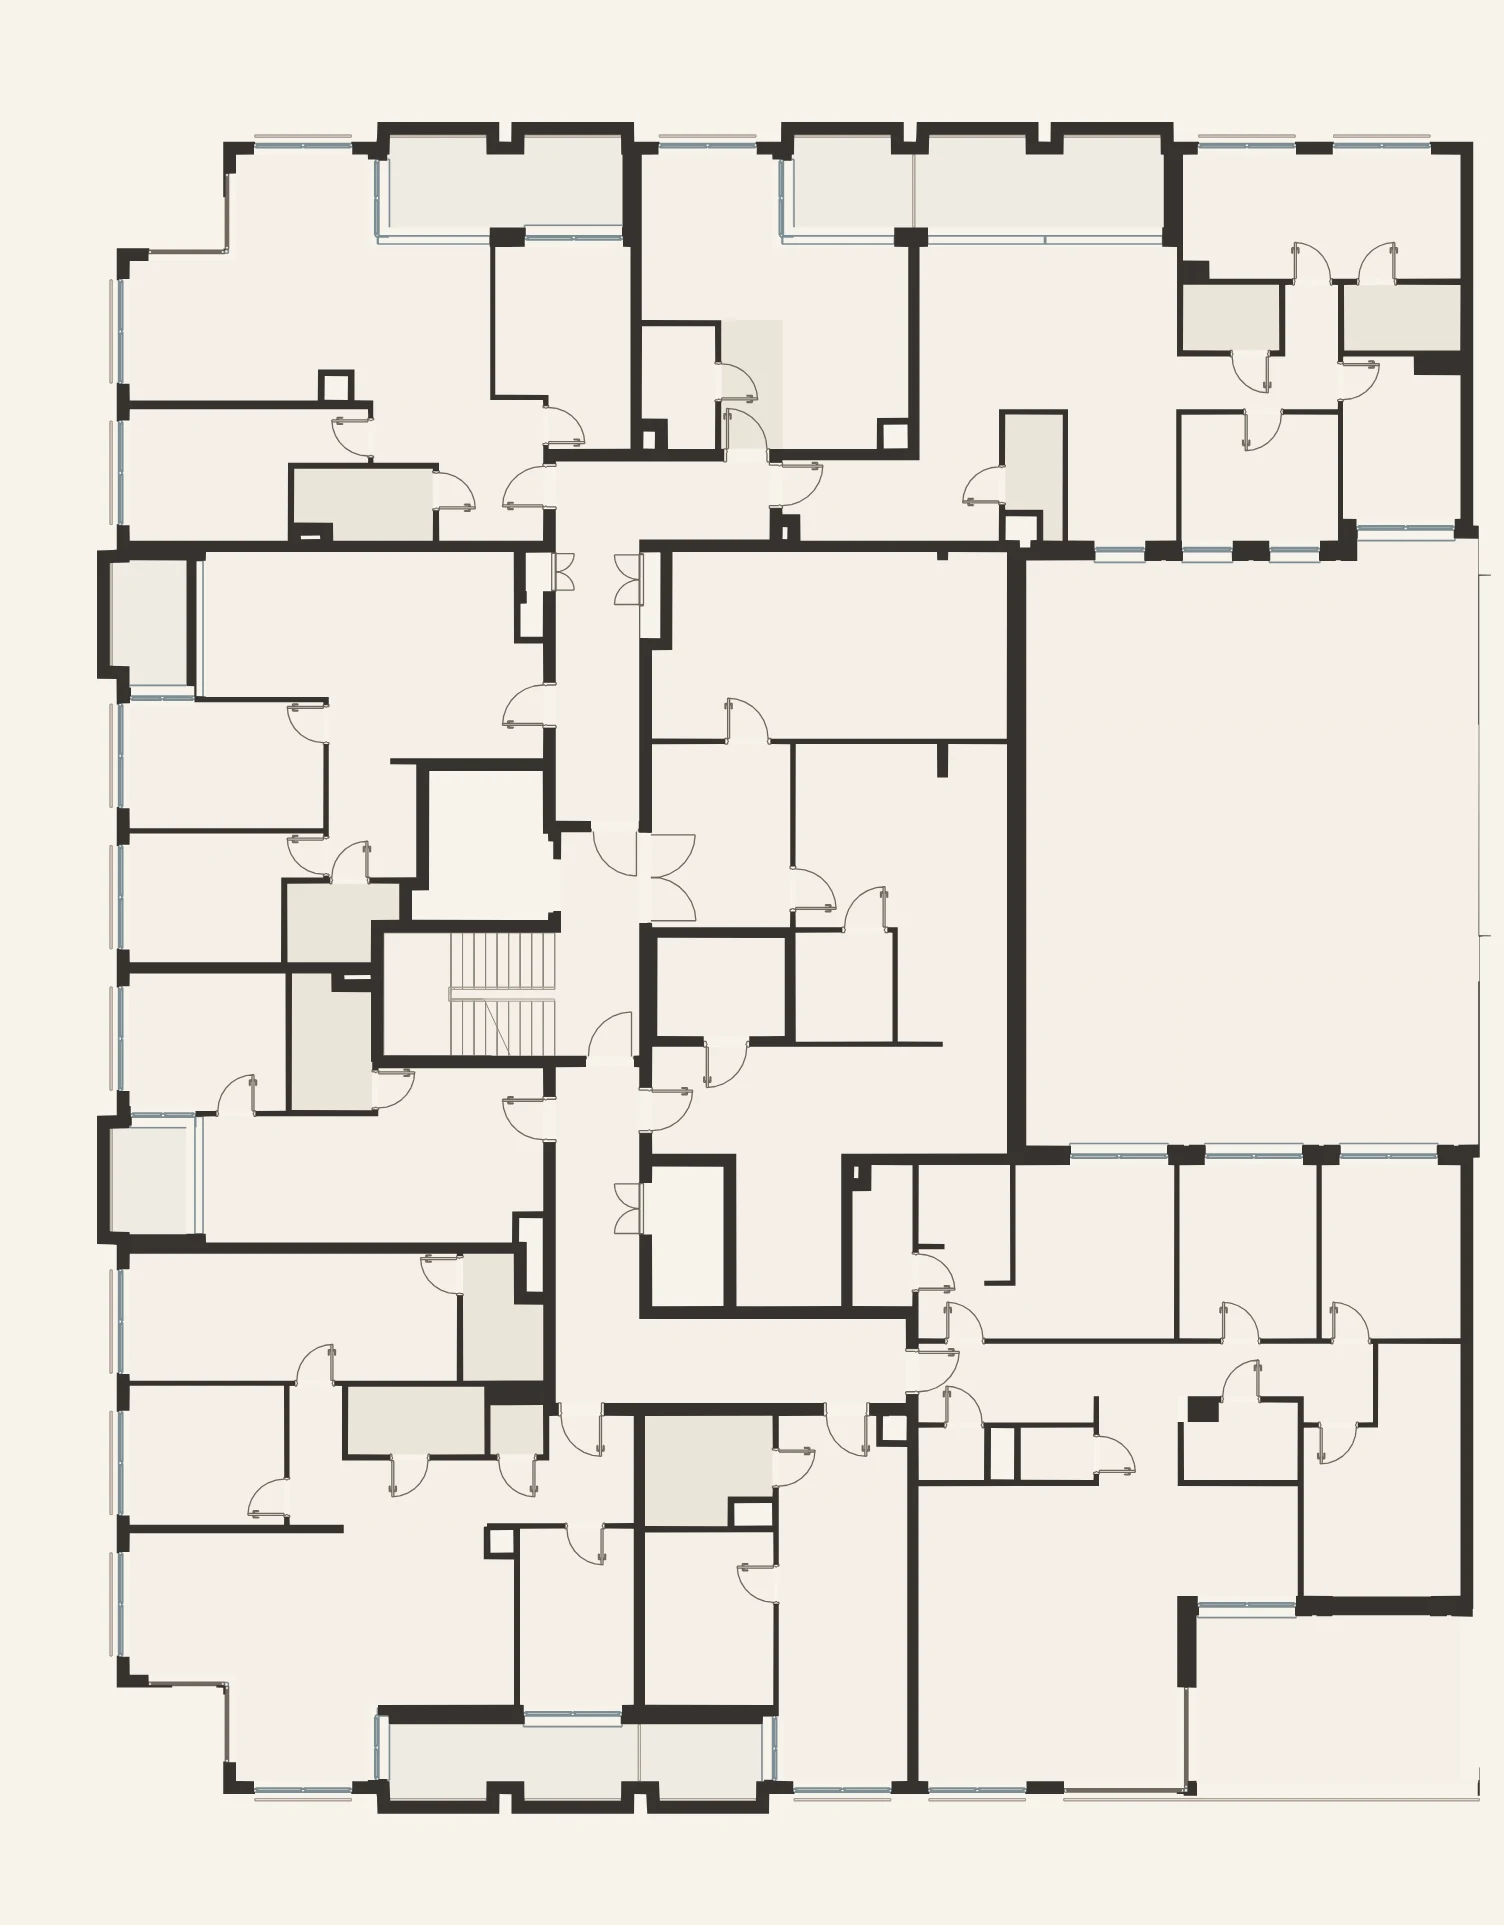
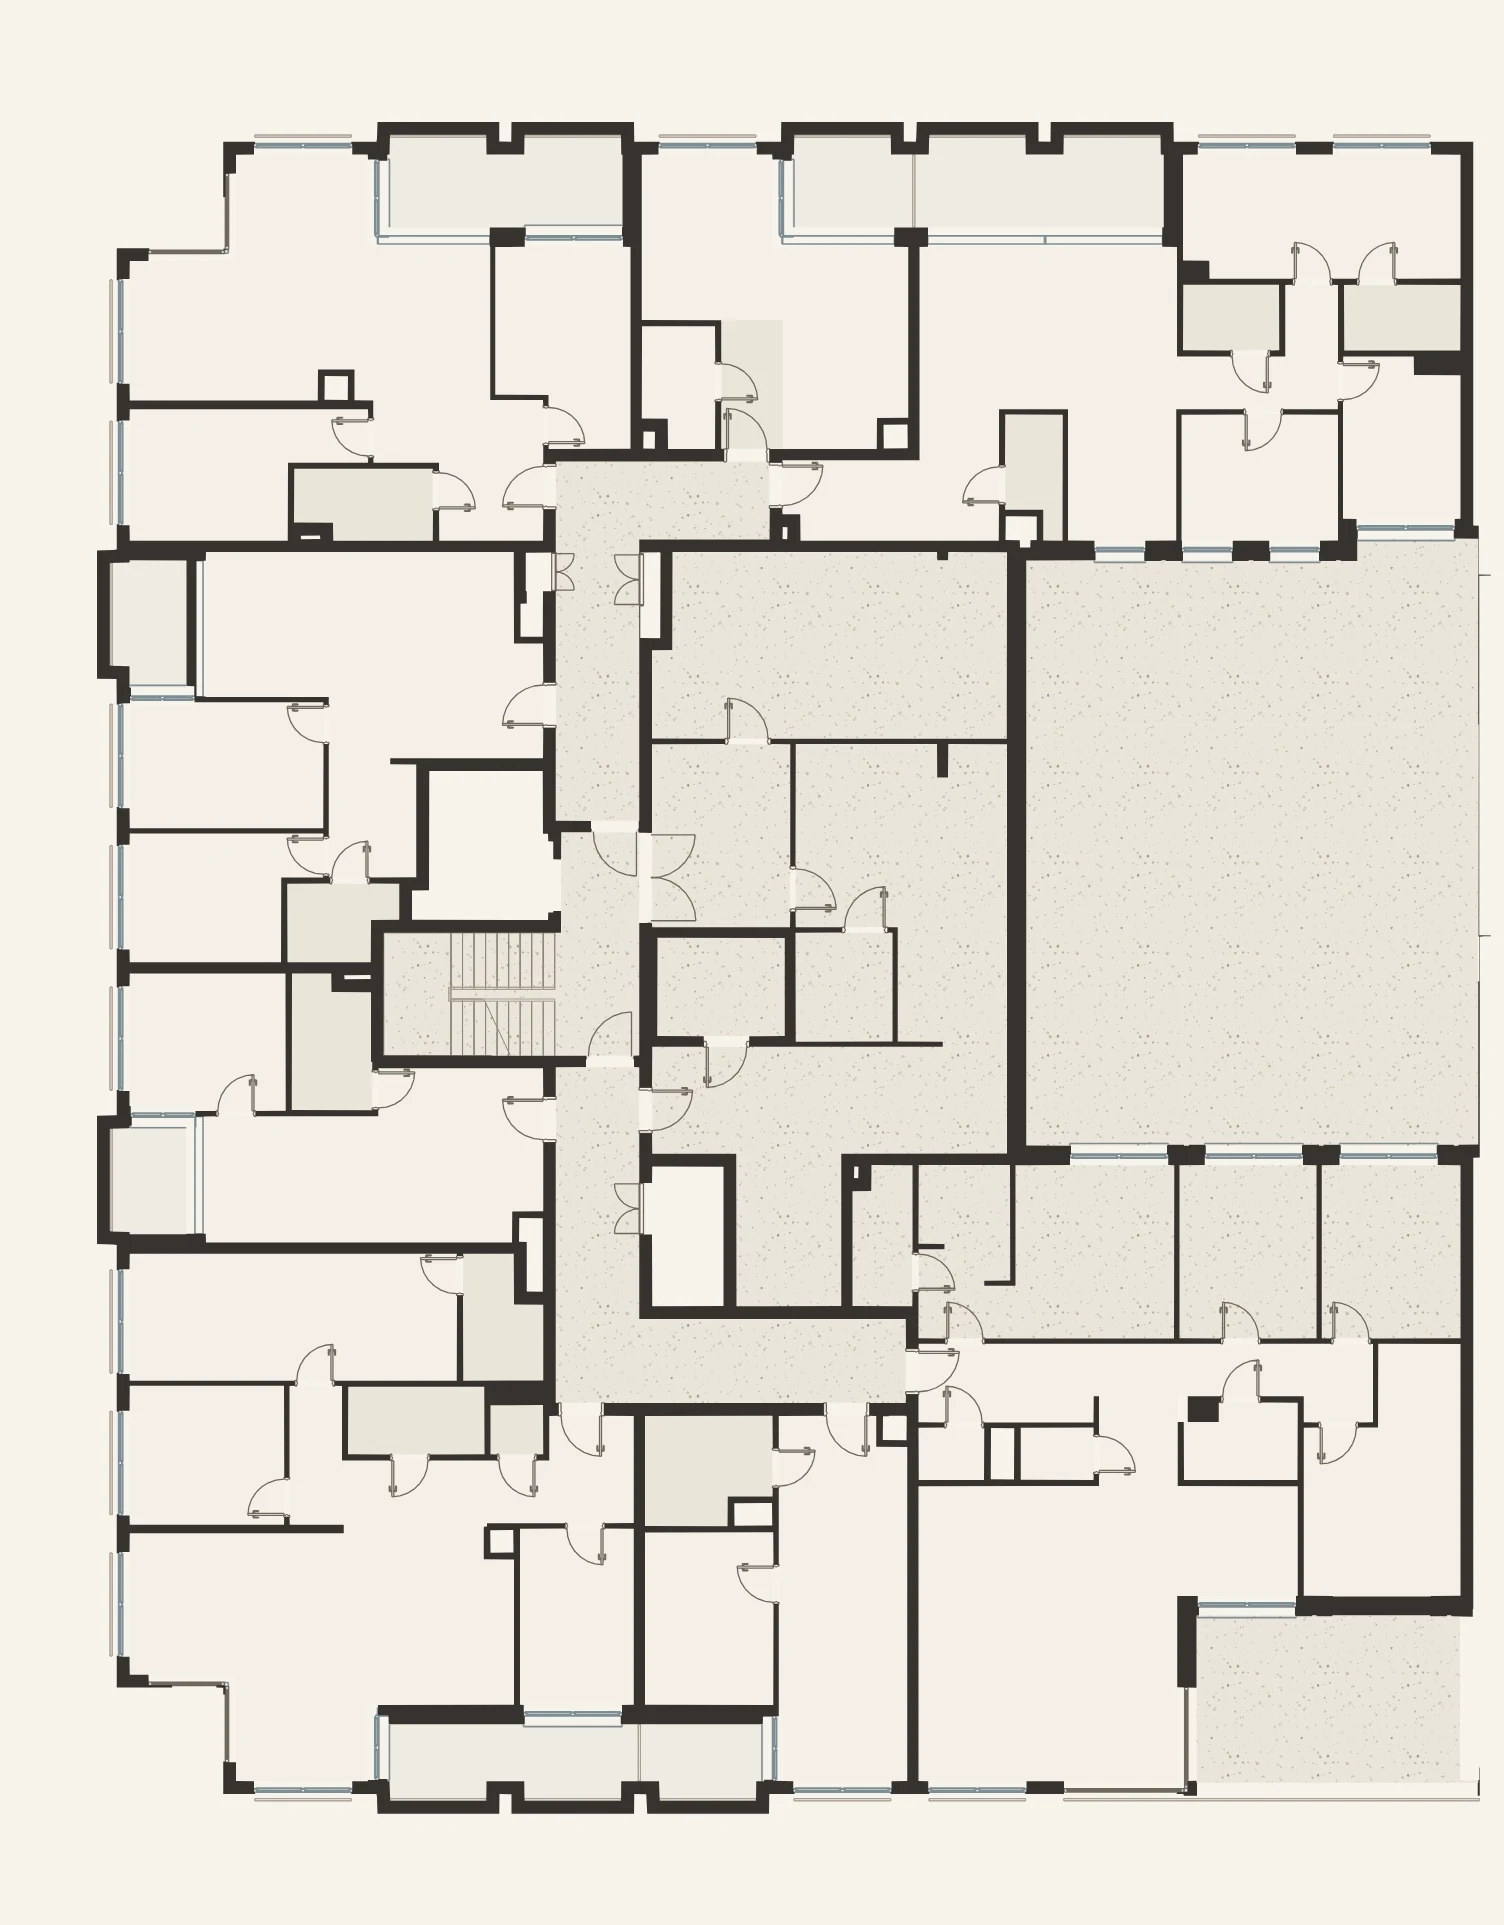
Rzuty kondygnacji: części wspólne (korytarze, klatka) w delikatnym lastryko (#110)
Claude-Session: https://claude.ai/code/session_01JqTzECbEDLjSdFDYMQNNHw

diff --git a/index.html b/index.html
@@ -18,7 +18,7 @@
   <link href="https://fonts.googleapis.com/css2?family=Jost:ital,wght@0,300..600;1,300..500&family=Nunito+Sans:ital,opsz,wght@0,6..12,300..700;1,6..12,300..500&display=swap" rel="stylesheet">
   <link rel="preload" as="image" href="assets/img/okolica-lotnicze.webp" imagesrcset="assets/img/okolica-lotnicze-1600.webp 1600w, assets/img/okolica-lotnicze.webp 3200w" imagesizes="100vw">
   <link rel="stylesheet" href="https://unpkg.com/leaflet@1.9.4/dist/leaflet.css" crossorigin="">
-  <link rel="stylesheet" href="assets/css/style.css?v=1793986717">
+  <link rel="stylesheet" href="assets/css/style.css?v=1793989126">
   <script>document.documentElement.classList.add('js');
   // Futura / Avenir Next tylko na Apple: gdy ich brak, dostrajamy darmowe zamienniki (Jost, Nunito Sans)
   (function(){try{var c=document.createElement('canvas').getContext('2d'),t='MWNmwqr075 Łódź';function w(f){c.font='72px '+f;return c.measureText(t).width}
@@ -640,12 +640,12 @@
 </div>
 
 <script src="https://unpkg.com/leaflet@1.9.4/dist/leaflet.js" crossorigin=""></script>
-<script src="assets/js/intro.js?v=1793986717"></script>
-<script src="assets/js/extras.js?v=1793986717"></script>
-<script src="assets/js/units.js?v=1793986717"></script>
-<script src="assets/js/dziennik.js?v=1793986717"></script>
-<script src="assets/js/plan.js?v=1793986717"></script>
-<script src="assets/js/dollhouse.js?v=1793986717" defer></script>
-<script src="assets/js/main.js?v=1793986717"></script>
+<script src="assets/js/intro.js?v=1793989126"></script>
+<script src="assets/js/extras.js?v=1793989126"></script>
+<script src="assets/js/units.js?v=1793989126"></script>
+<script src="assets/js/dziennik.js?v=1793989126"></script>
+<script src="assets/js/plan.js?v=1793989126"></script>
+<script src="assets/js/dollhouse.js?v=1793989126" defer></script>
+<script src="assets/js/main.js?v=1793989126"></script>
 </body>
 </html>

diff --git a/mieszkanie.html b/mieszkanie.html
@@ -17,7 +17,7 @@
   <!-- Docelowo: Futura PT i Avenir Next z licencji (np. Adobe Fonts). Jost i Nunito Sans to darmowe zamienniki na urządzeniach bez tych krojów. -->
   <link href="https://fonts.googleapis.com/css2?family=Jost:ital,wght@0,300..600;1,300..500&family=Nunito+Sans:ital,opsz,wght@0,6..12,300..700;1,6..12,300..500&display=swap" rel="stylesheet">
   
-  <link rel="stylesheet" href="assets/css/style.css?v=1793986717">
+  <link rel="stylesheet" href="assets/css/style.css?v=1793989126">
   <script>document.documentElement.classList.add('js');
   // Futura / Avenir Next tylko na Apple: gdy ich brak, dostrajamy darmowe zamienniki (Jost, Nunito Sans)
   (function(){try{var c=document.createElement('canvas').getContext('2d'),t='MWNmwqr075 Łódź';function w(f){c.font='72px '+f;return c.measureText(t).width}
@@ -101,11 +101,11 @@
   <button class="lb-close" aria-label="Zamknij"><svg viewBox="0 0 24 24"><path d="M6 6l12 12M18 6L6 18"/></svg></button>
 </div>
 
-<script src="assets/js/extras.js?v=1793986717"></script>
-<script src="assets/js/units.js?v=1793986717"></script>
-<script src="assets/js/plan.js?v=1793986717"></script>
-<script src="assets/js/dollhouse.js?v=1793986717" defer></script>
-<script src="assets/js/unit.js?v=1793986717"></script>
-<script src="assets/js/page.js?v=1793986717"></script>
+<script src="assets/js/extras.js?v=1793989126"></script>
+<script src="assets/js/units.js?v=1793989126"></script>
+<script src="assets/js/plan.js?v=1793989126"></script>
+<script src="assets/js/dollhouse.js?v=1793989126" defer></script>
+<script src="assets/js/unit.js?v=1793989126"></script>
+<script src="assets/js/page.js?v=1793989126"></script>
 </body>
 </html>

diff --git a/porownaj.html b/porownaj.html
@@ -18,7 +18,7 @@
   <!-- Docelowo: Futura PT i Avenir Next z licencji (np. Adobe Fonts). Jost i Nunito Sans to darmowe zamienniki na urządzeniach bez tych krojów. -->
   <link href="https://fonts.googleapis.com/css2?family=Jost:ital,wght@0,300..600;1,300..500&family=Nunito+Sans:ital,opsz,wght@0,6..12,300..700;1,6..12,300..500&display=swap" rel="stylesheet">
   
-  <link rel="stylesheet" href="assets/css/style.css?v=1793986717">
+  <link rel="stylesheet" href="assets/css/style.css?v=1793989126">
   <script>document.documentElement.classList.add('js');
   // Futura / Avenir Next tylko na Apple: gdy ich brak, dostrajamy darmowe zamienniki (Jost, Nunito Sans)
   (function(){try{var c=document.createElement('canvas').getContext('2d'),t='MWNmwqr075 Łódź';function w(f){c.font='72px '+f;return c.measureText(t).width}
@@ -109,9 +109,9 @@
   <button class="lb-close" aria-label="Zamknij"><svg viewBox="0 0 24 24"><path d="M6 6l12 12M18 6L6 18"/></svg></button>
 </div>
 
-<script src="assets/js/extras.js?v=1793986717"></script>
-<script src="assets/js/units.js?v=1793986717"></script>
-<script src="assets/js/page.js?v=1793986717"></script>
-<script src="assets/js/porownaj.js?v=1793986717"></script>
+<script src="assets/js/extras.js?v=1793989126"></script>
+<script src="assets/js/units.js?v=1793989126"></script>
+<script src="assets/js/page.js?v=1793989126"></script>
+<script src="assets/js/porownaj.js?v=1793989126"></script>
 </body>
 </html>

diff --git a/budynek.html b/budynek.html
@@ -17,7 +17,7 @@
   <!-- Docelowo: Futura PT i Avenir Next z licencji (np. Adobe Fonts). Jost i Nunito Sans to darmowe zamienniki na urządzeniach bez tych krojów. -->
   <link href="https://fonts.googleapis.com/css2?family=Jost:ital,wght@0,300..600;1,300..500&family=Nunito+Sans:ital,opsz,wght@0,6..12,300..700;1,6..12,300..500&display=swap" rel="stylesheet">
   
-  <link rel="stylesheet" href="assets/css/style.css?v=1793986717">
+  <link rel="stylesheet" href="assets/css/style.css?v=1793989126">
   <script>document.documentElement.classList.add('js');
   // Futura / Avenir Next tylko na Apple: gdy ich brak, dostrajamy darmowe zamienniki (Jost, Nunito Sans)
   (function(){try{var c=document.createElement('canvas').getContext('2d'),t='MWNmwqr075 Łódź';function w(f){c.font='72px '+f;return c.measureText(t).width}
@@ -164,7 +164,7 @@
   <button class="lb-close" aria-label="Zamknij"><svg viewBox="0 0 24 24"><path d="M6 6l12 12M18 6L6 18"/></svg></button>
 </div>
 
-<script src="assets/js/extras.js?v=1793986717"></script>
-<script src="assets/js/page.js?v=1793986717"></script>
+<script src="assets/js/extras.js?v=1793989126"></script>
+<script src="assets/js/page.js?v=1793989126"></script>
 </body>
 </html>

diff --git a/manifest.html b/manifest.html
@@ -17,7 +17,7 @@
   <!-- Docelowo: Futura PT i Avenir Next z licencji (np. Adobe Fonts). Jost i Nunito Sans to darmowe zamienniki na urządzeniach bez tych krojów. -->
   <link href="https://fonts.googleapis.com/css2?family=Jost:ital,wght@0,300..600;1,300..500&family=Nunito+Sans:ital,opsz,wght@0,6..12,300..700;1,6..12,300..500&display=swap" rel="stylesheet">
   
-  <link rel="stylesheet" href="assets/css/style.css?v=1793986717">
+  <link rel="stylesheet" href="assets/css/style.css?v=1793989126">
   <script>document.documentElement.classList.add('js');
   // Futura / Avenir Next tylko na Apple: gdy ich brak, dostrajamy darmowe zamienniki (Jost, Nunito Sans)
   (function(){try{var c=document.createElement('canvas').getContext('2d'),t='MWNmwqr075 Łódź';function w(f){c.font='72px '+f;return c.measureText(t).width}
@@ -164,7 +164,7 @@
   <button class="lb-close" aria-label="Zamknij"><svg viewBox="0 0 24 24"><path d="M6 6l12 12M18 6L6 18"/></svg></button>
 </div>
 
-<script src="assets/js/extras.js?v=1793986717"></script>
-<script src="assets/js/page.js?v=1793986717"></script>
+<script src="assets/js/extras.js?v=1793989126"></script>
+<script src="assets/js/page.js?v=1793989126"></script>
 </body>
 </html>

diff --git a/polityka-prywatnosci.html b/polityka-prywatnosci.html
@@ -17,7 +17,7 @@
   <!-- Docelowo: Futura PT i Avenir Next z licencji (np. Adobe Fonts). Jost i Nunito Sans to darmowe zamienniki na urządzeniach bez tych krojów. -->
   <link href="https://fonts.googleapis.com/css2?family=Jost:ital,wght@0,300..600;1,300..500&family=Nunito+Sans:ital,opsz,wght@0,6..12,300..700;1,6..12,300..500&display=swap" rel="stylesheet">
   
-  <link rel="stylesheet" href="assets/css/style.css?v=1793986717">
+  <link rel="stylesheet" href="assets/css/style.css?v=1793989126">
   <script>document.documentElement.classList.add('js');
   // Futura / Avenir Next tylko na Apple: gdy ich brak, dostrajamy darmowe zamienniki (Jost, Nunito Sans)
   (function(){try{var c=document.createElement('canvas').getContext('2d'),t='MWNmwqr075 Łódź';function w(f){c.font='72px '+f;return c.measureText(t).width}
@@ -294,7 +294,7 @@
   <button class="lb-close" aria-label="Zamknij"><svg viewBox="0 0 24 24"><path d="M6 6l12 12M18 6L6 18"/></svg></button>
 </div>
 
-<script src="assets/js/extras.js?v=1793986717"></script>
-<script src="assets/js/page.js?v=1793986717"></script>
+<script src="assets/js/extras.js?v=1793989126"></script>
+<script src="assets/js/page.js?v=1793989126"></script>
 </body>
 </html>

diff --git a/assets/js/dollhouse.js b/assets/js/dollhouse.js
@@ -558,7 +558,7 @@
     var load = dlg.querySelector('.dh__load'); load.hidden = false; load.textContent = 'Ładowanie modelu…';
     if (!viewer) { load.textContent = 'Ta przeglądarka nie obsługuje widoku 3D.'; return; }
     viewer.az = -0.62; viewer.el = 1.0; viewer.zoom = 1;
-    fetch(BASE + encodeURIComponent(id) + '.json?v=1793986717').then(function (r) { return r.ok ? r.json() : Promise.reject(); }).then(function (d) {
+    fetch(BASE + encodeURIComponent(id) + '.json?v=1793989126').then(function (r) { return r.ok ? r.json() : Promise.reject(); }).then(function (d) {
       data = d; setLevels(); show(0); load.hidden = true; intro();
     }).catch(function () { load.textContent = 'Model 3D tego lokalu jest w przygotowaniu.'; });
     setTimeout(function () { var x = dlg.querySelector('.dh__x'); if (x) x.focus({ preventScroll: true }); }, 50);

diff --git a/assets/js/porownaj.js b/assets/js/porownaj.js
@@ -14,7 +14,7 @@
   function favs() { return (window.N75Fav ? window.N75Fav.list() : []).filter(function (id) { return byId[id]; }); }
 
   function thumb(u) {
-    return u.levels.map(function (l) { return '<img src="assets/img/plany/lokale/' + u.id + '-' + l + '-sm.webp?v=1793986717" alt="Rzut lokalu ' + u.id + (u.levels.length > 1 ? ', piętro ' + l : '') + '" loading="lazy">'; }).join('');
+    return u.levels.map(function (l) { return '<img src="assets/img/plany/lokale/' + u.id + '-' + l + '-sm.webp?v=1793989126" alt="Rzut lokalu ' + u.id + (u.levels.length > 1 ? ', piętro ' + l : '') + '" loading="lazy">'; }).join('');
   }
   function roomArea(u, re) { return u.roomsList.filter(function (r) { return re.test(r[1]); }).reduce(function (s, r) { return s + r[2]; }, 0); }
 

diff --git a/assets/js/main.js b/assets/js/main.js
@@ -502,7 +502,7 @@
   // miniatura prawdziwego rzutu lokalu (z meblami); dwupoziomowe: obie kondygnacje obok siebie
   function planThumb(u) {
     return u.levels.map(function (l) {
-      return '<img src="assets/img/plany/lokale/' + u.id + '-' + l + '-sm.webp?v=1793986717" alt="Rzut lokalu ' + u.id + (u.levels.length > 1 ? ', piętro ' + l : '') + '" loading="lazy">';
+      return '<img src="assets/img/plany/lokale/' + u.id + '-' + l + '-sm.webp?v=1793989126" alt="Rzut lokalu ' + u.id + (u.levels.length > 1 ? ', piętro ' + l : '') + '" loading="lazy">';
     }).join('');
   }
 

diff --git a/assets/js/plan.js b/assets/js/plan.js
@@ -3,7 +3,7 @@
 (function () {
   'use strict';
   var NS = 'http://www.w3.org/2000/svg';
-  var W = 1504, H = 1925, V = '?v=1793986717';
+  var W = 1504, H = 1925, V = '?v=1793989126';
 
   function el(tag, attrs, parent) {
     var n = document.createElementNS(NS, tag);
